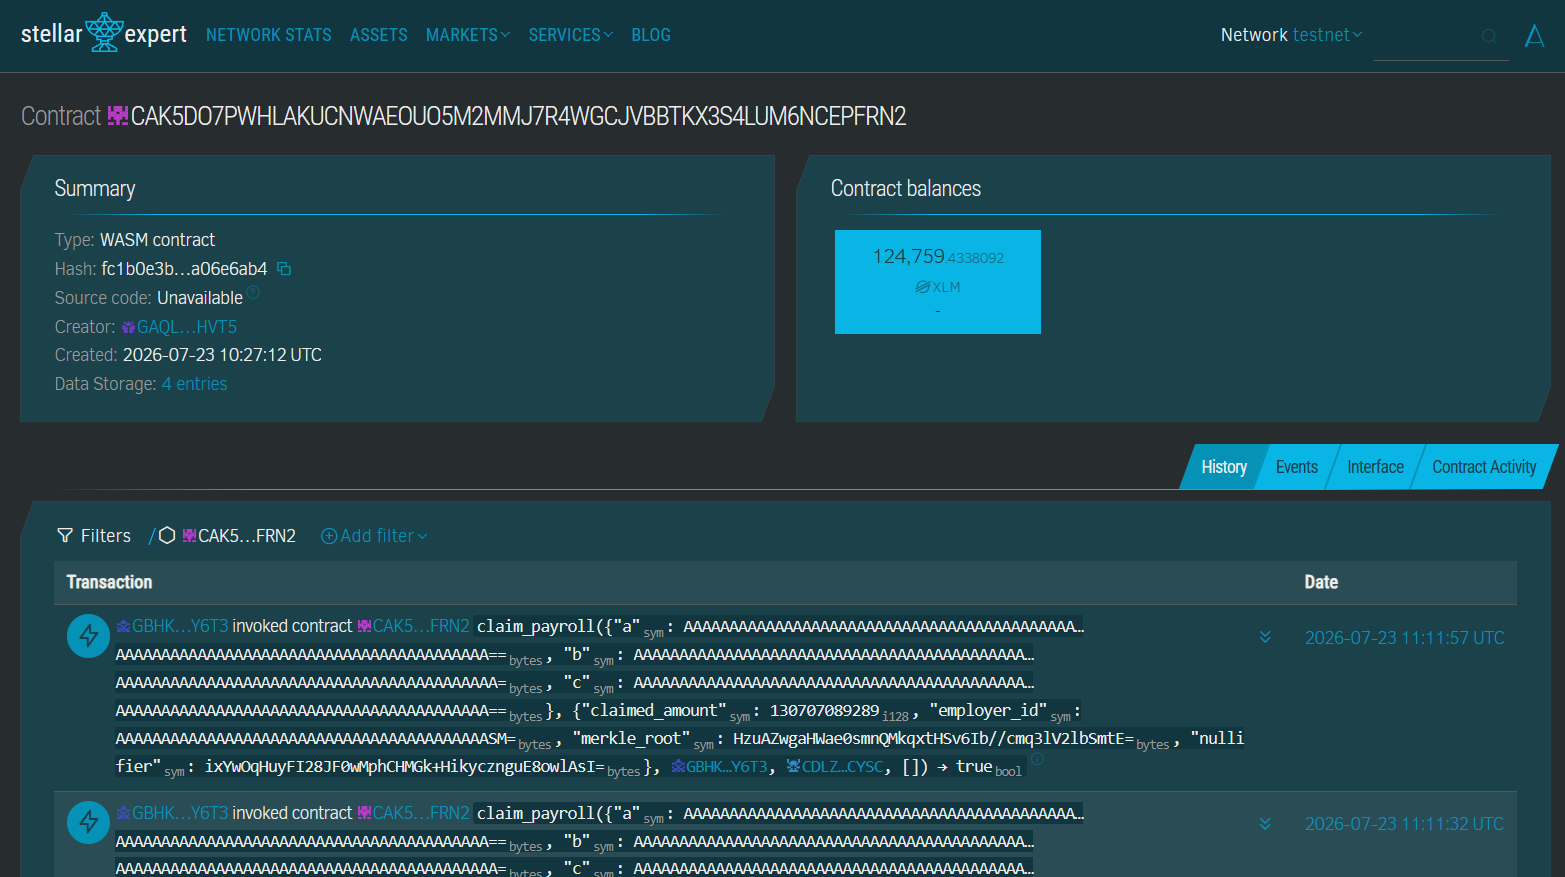
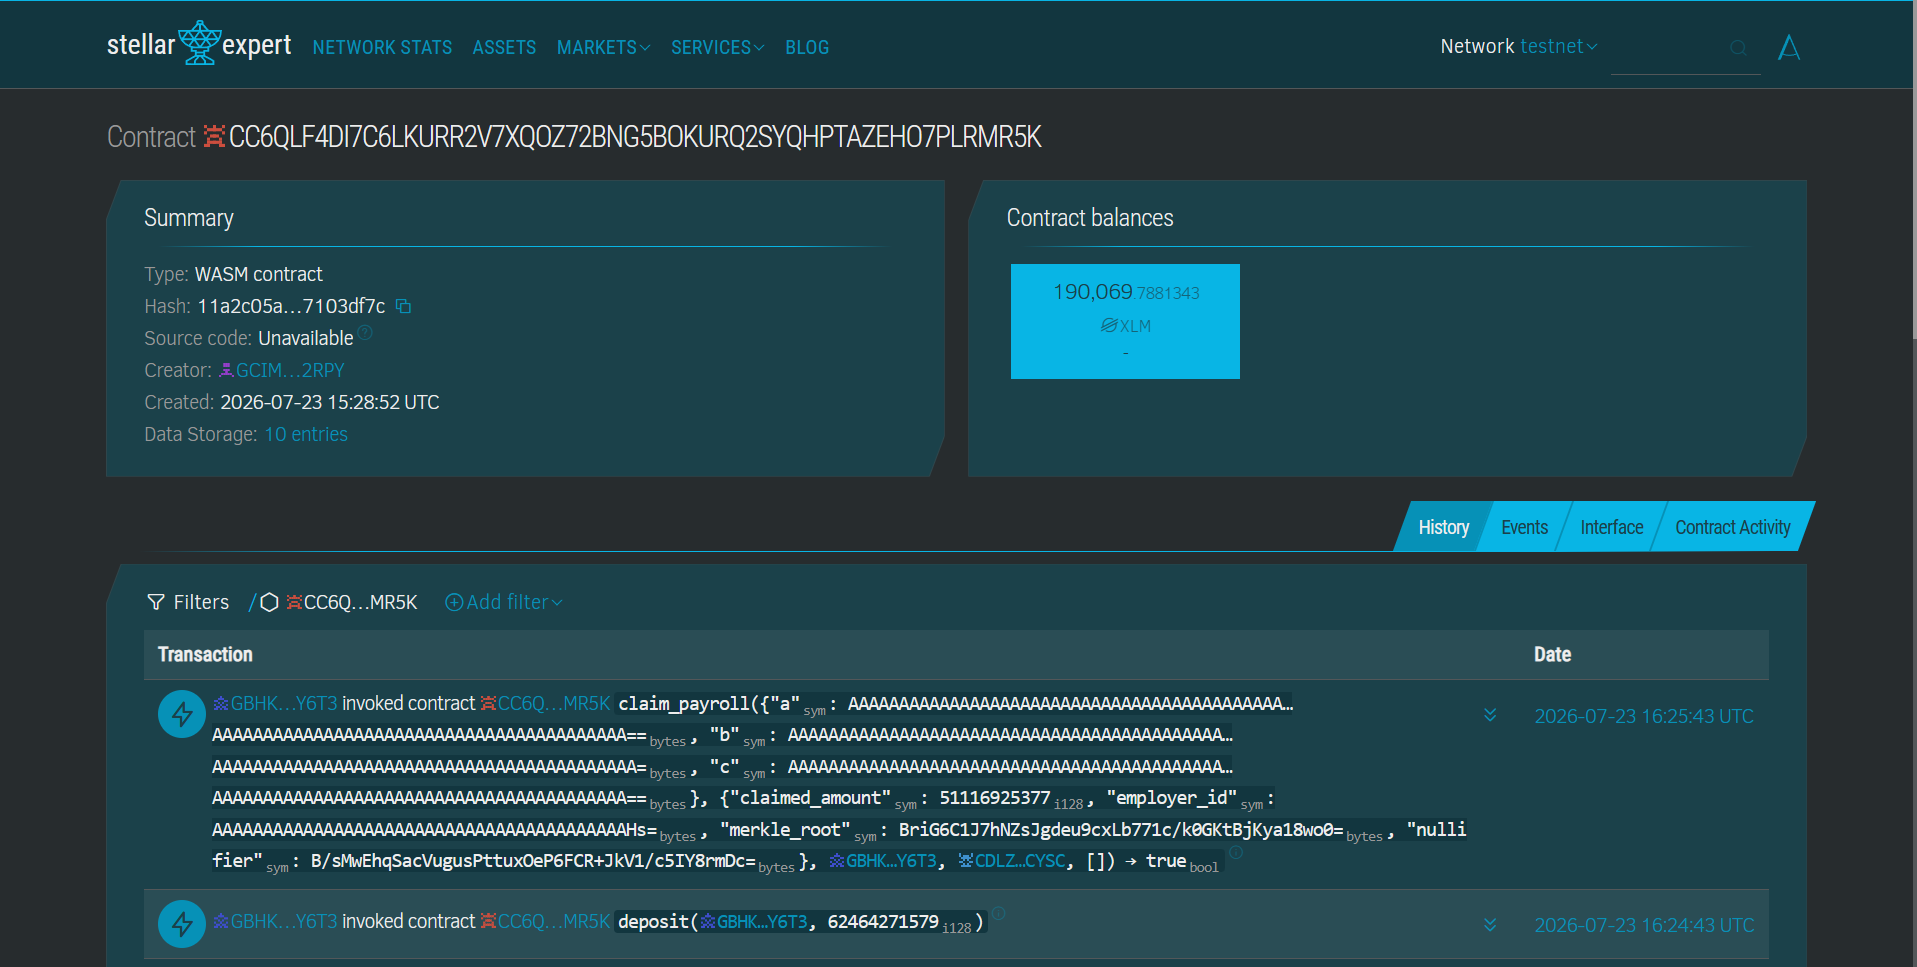
docs: use actual live testnet address

diff --git a/README.md b/README.md
@@ -100,7 +100,7 @@ Unlike traditional crypto payroll solutions (like Sablier or standard multisig d
 
 ### Live Contract (Testnet)
 ![Testnet Contract](public/testnetv2.png)
-* **Contract Address:** [`CAK5DO7PWHLAKUCNWAEOUO5M2MMJ7R4WGCJVBBTKX3S4LUM6NCEPFRN2`](https://stellar.expert/explorer/testnet/contract/CAK5DO7PWHLAKUCNWAEOUO5M2MMJ7R4WGCJVBBTKX3S4LUM6NCEPFRN2)
+* **Contract Address:** [`CC6QLF4DI7C6LKURR2V7XQOZ72BNG5BOKURQ2SYQHPTAZEHO7PLRMR5K`](https://stellar.expert/explorer/testnet/contract/CC6QLF4DI7C6LKURR2V7XQOZ72BNG5BOKURQ2SYQHPTAZEHO7PLRMR5K)
 
 ### Architecture
 